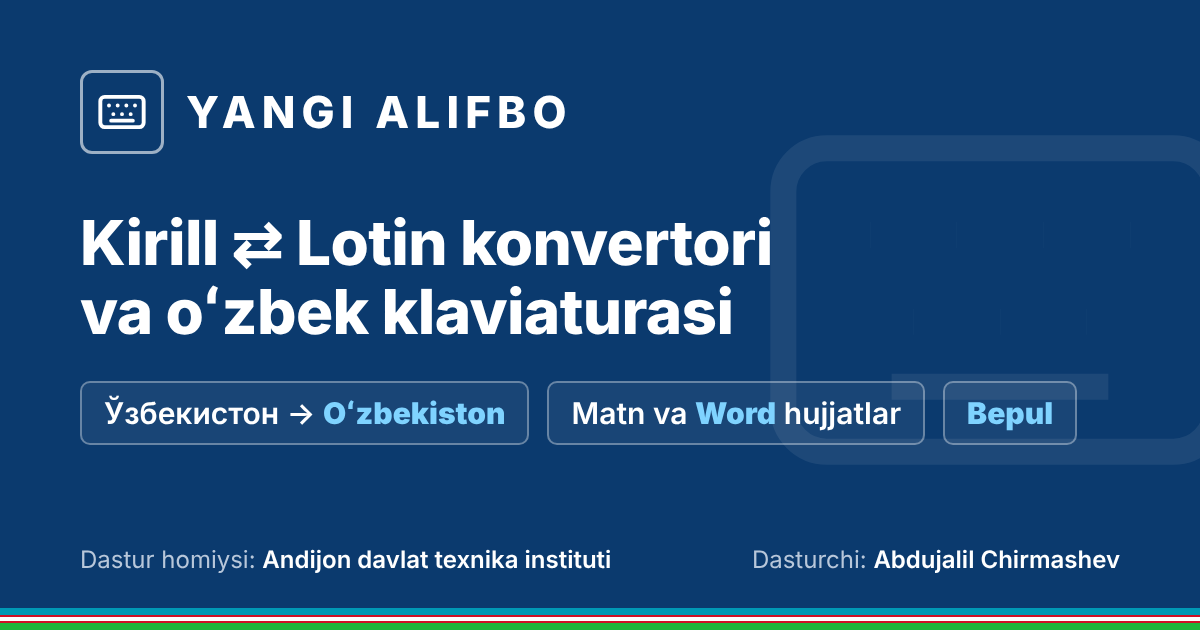
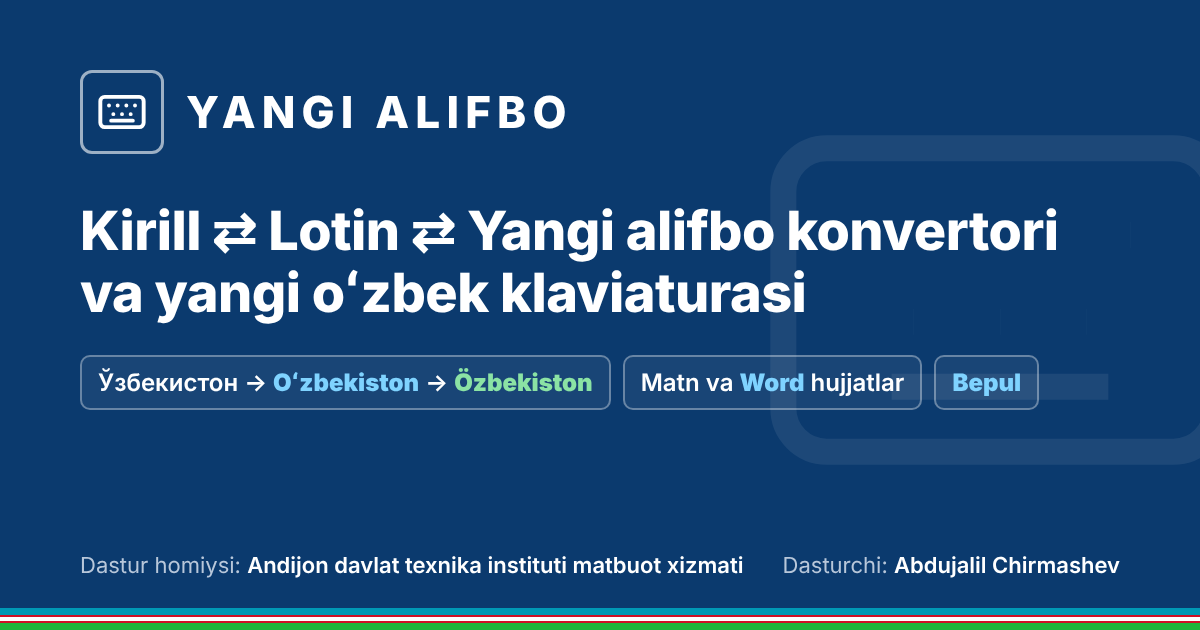
Ulashish rasmini yangilash
- Sarlavha: «Kirill ⇄ Lotin ⇄ Yangi alifbo konvertori va yangi oʻzbek klaviaturasi»
- Misol: Ўзбекистон → Oʻzbekiston → Özbekiston
- Dastur homiysi: Andijon davlat texnika instituti matbuot xizmati

Claude-Session: https://claude.ai/code/session_01PoVbwgcZGnpMB2EM1KBuBu

Changed region(s): [[0.0617, 0.3317, 0.8942, 0.7238], [0.0617, 0.8746, 0.9558, 0.9349]]

diff --git a/index.html b/index.html
@@ -20,7 +20,7 @@
   <meta property="og:image:type" content="image/png">
   <meta property="og:image:width" content="1200">
   <meta property="og:image:height" content="630">
-  <meta property="og:image:alt" content="Yangi Alifbo — kirill-lotin konvertori">
+  <meta property="og:image:alt" content="Yangi Alifbo — Kirill, Lotin va Yangi alifbo konvertori hamda yangi oʻzbek klaviaturasi">
   <meta name="twitter:card" content="summary_large_image">
   <meta name="twitter:title" content="Yangi Alifbo — kirill-lotin konvertori va oʻzbek klaviaturasi">
   <meta name="twitter:description" content="Matn va Word hujjatlarni kirill, lotin va yangi alifbo oʻrtasida bepul oʻgiring.">
